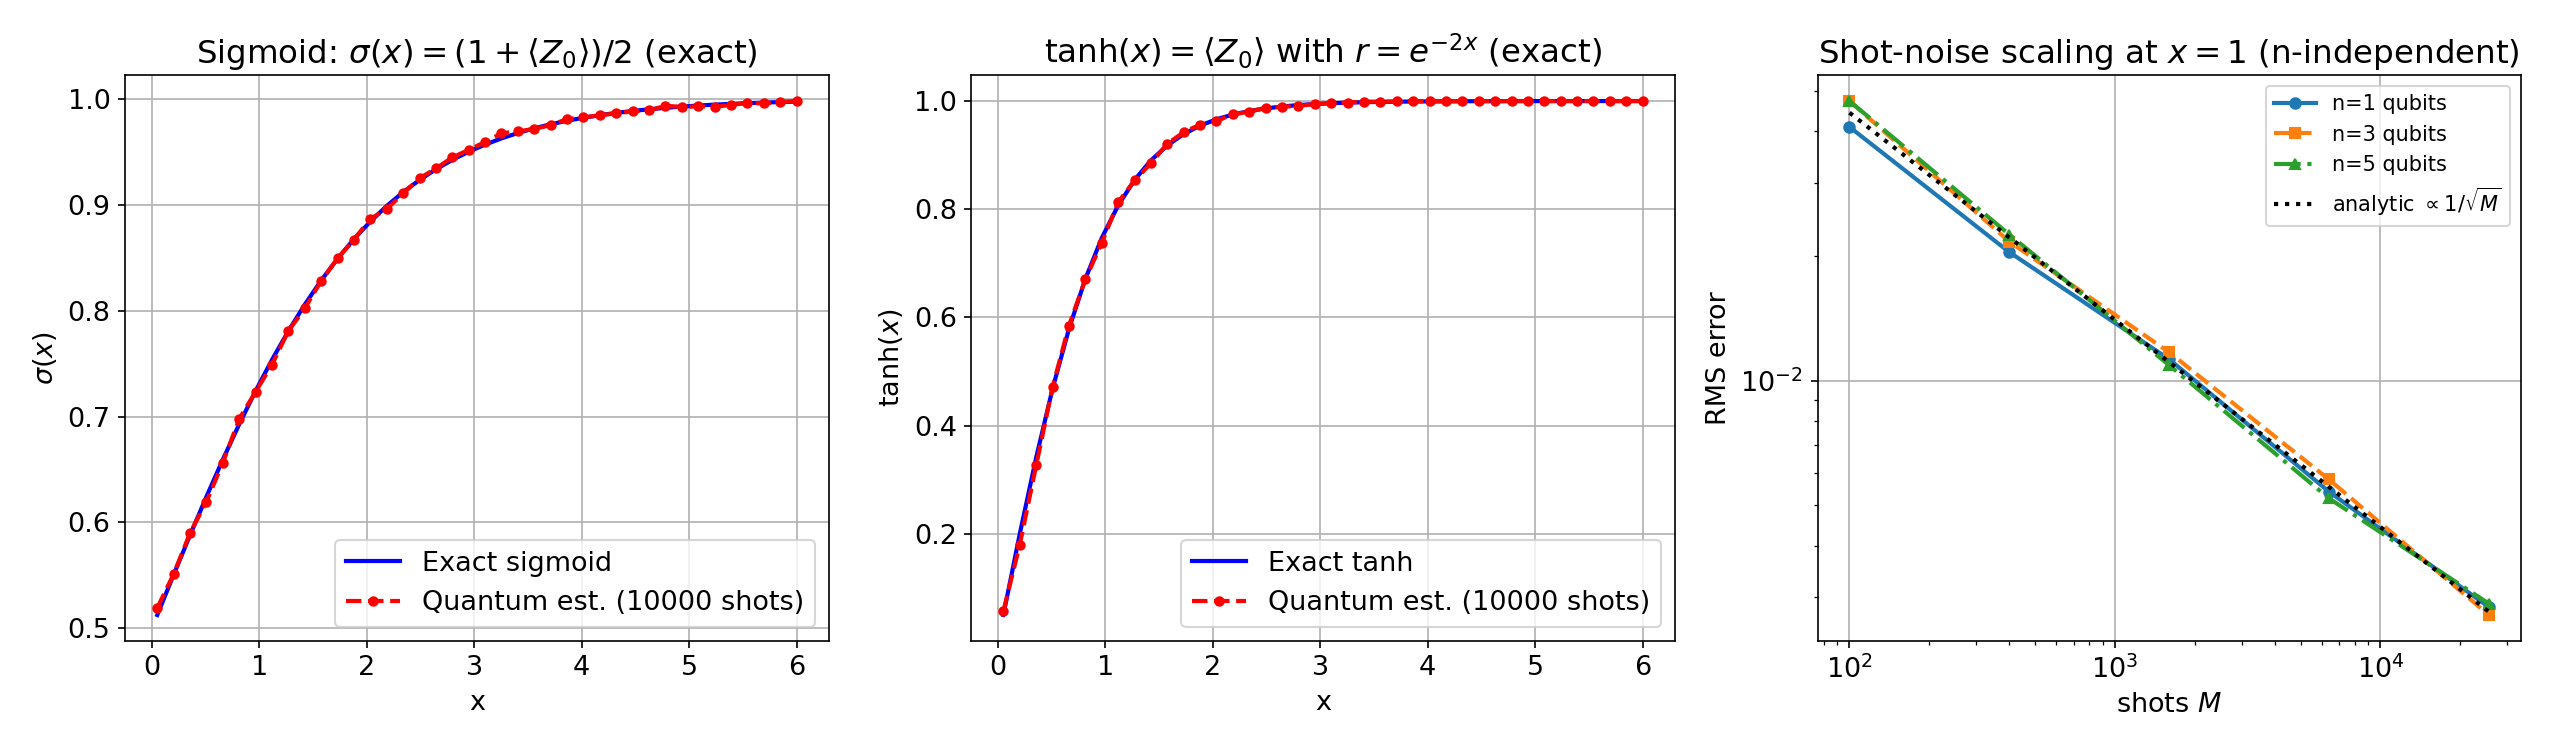
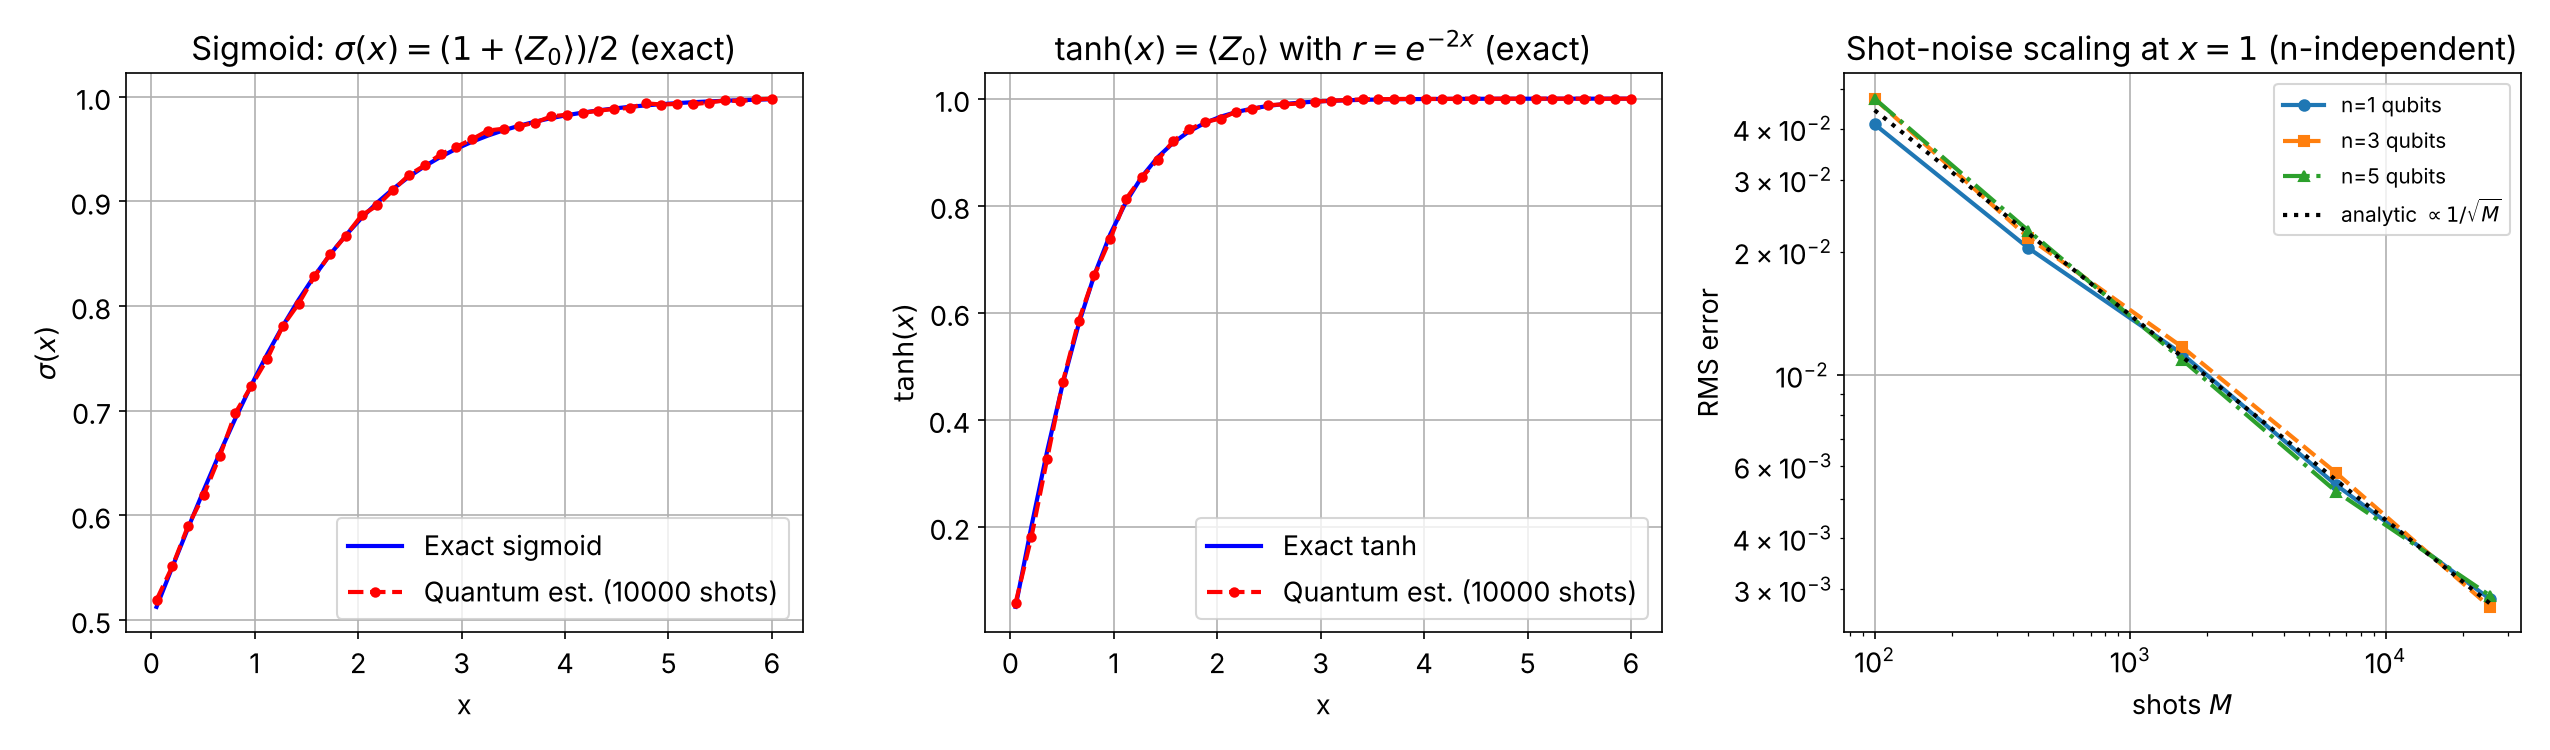
small fixes to simulaiton code

diff --git a/kernel_simulation.py b/kernel_simulation.py
@@ -15,7 +15,9 @@ give |<phi(x)|phi(y)>|^2 = [sqrt((1-qx^2)(1-qy^2)) + qx qy]^{2d}
 Estimated by SWAP test on 2d+1 qubits.
 
 Panel (c): Kernel ridge regression with the quantum geometric kernel
-(SWAP-test kernel matrix) on a 1-D binary classification task.
+(Gram matrix and test kernel both with SWAP-test shot noise, simulated by the
+equivalent binomial sampling) on a 1-D binary classification task. Training
+labels carry 10% flip noise; test labels are noise-free.
 """
 
 import pennylane as qml
@@ -120,9 +122,8 @@ if __name__ == "__main__":
         p = np.clip((1 + K_exact) / 2, 0, 1)
         return 2 * rng.binomial(M, p) / M - 1
 
-    def ridge_acc(Kmat_tr, ytr, Xtr_k, Xte_k, kern_exact):
+    def ridge_acc(Kmat_tr, ytr, Kte):
         alpha = np.linalg.solve(Kmat_tr + lam * np.eye(len(ytr)), ytr)
-        Kte = np.array([[kern_exact(xt, xs) for xs in Xtr_k] for xt in Xte_k])
         return np.sign(Kte @ alpha)
 
     gamma_rbf = 2.0
@@ -131,7 +132,8 @@ if __name__ == "__main__":
     Xte_n = 0.9 * Xte / np.pi
     geo_exact_tr = np.array([[geo_kernel_exact(a, b, n_qubits) for b in Xn] for a in Xn])
     rbf_tr = np.exp(-gamma_rbf**2 * (Xtr[:, None] - Xtr[None, :])**2)
-    rbf_te = lambda xt, xs: np.exp(-gamma_rbf**2 * (xt - xs)**2)
+    rbf_te_mat = np.exp(-gamma_rbf**2 * (Xte[:, None] - Xtr[None, :])**2)
+    geo_exact_te = np.array([[geo_kernel_exact(a, b, n_qubits) for b in Xn] for a in Xte_n])
 
     n_seeds = 10
     acc_q, acc_rbf = [], []
@@ -139,10 +141,13 @@ if __name__ == "__main__":
     for seed in range(n_seeds):
         rng = np.random.default_rng(seed)
         ytr = np.sign(np.sin(3 * Xtr)); flip = rng.random(n_train) < 0.1; ytr[flip] *= -1
+        # Gram matrix AND test-train kernel are both estimated with shot noise
         Kq = swap_noise(geo_exact_tr, shots, rng)
+        Kq = np.triu(Kq) + np.triu(Kq, 1).T      # symmetric estimate
         np.fill_diagonal(Kq, 1.0)  # SWAP test of a state with itself is exactly 1
-        pq = ridge_acc(Kq, ytr, Xn, Xte_n, lambda xt, xs: geo_kernel_exact(xt, xs, n_qubits))
-        pr = ridge_acc(rbf_tr, ytr, Xtr, Xte, rbf_te)
+        Kq_te = swap_noise(geo_exact_te, shots, rng)
+        pq = ridge_acc(Kq, ytr, Kq_te)
+        pr = ridge_acc(rbf_tr, ytr, rbf_te_mat)
         acc_q.append(np.mean(pq == yte)); acc_rbf.append(np.mean(pr == yte))
         if seed == 0:
             preds = {'q': pq, 'rbf': pr, 'ytr': ytr}

diff --git a/quantum_kan.py b/quantum_kan.py
@@ -41,30 +41,13 @@ class FourierTerm(torch.nn.Module):
             qml.Hadamard(wires=0)
             return qml.expval(qml.PauliZ(0))
 
-        @qml.qnode(self.dev, interface='torch', diff_method='backprop')
-        def circuit_imag(phase):
-            qml.Hadamard(wires=0)
-            for k in range(1, self.n_qubits + 1):
-                qml.Hadamard(wires=k)
-            for k in range(self.n_qubits):
-                angle = phase * (2 ** k)
-                qml.ControlledPhaseShift(angle, wires=[0, k + 1])
-            qml.adjoint(qml.S)(wires=0)
-            qml.Hadamard(wires=0)
-            return qml.expval(qml.PauliZ(0))
-
         self.circuit_real = circuit_real
-        self.circuit_imag = circuit_imag
 
     def forward(self, x):
-        results = []
-        for xi in x:
-            phase = self.omega * xi
-            re = self.circuit_real(phase)
-            im = self.circuit_imag(phase)
-            avg = re + 1j * im
-            results.append(avg.real.float())   # ensure float32
-        return torch.stack(results)
+        # Hadamard test: <Z_0> = Re[(1/N) sum_j e^{i omega x j}] (real Dirichlet kernel).
+        # The whole batch is evaluated at once via PennyLane parameter broadcasting.
+        phase = self.omega * x
+        return self.circuit_real(phase).float()   # ensure float32
 
 
 # ----------------------------------------------------------------------

diff --git a/soft_plus_relu.py b/soft_plus_relu.py
@@ -13,7 +13,8 @@ For x > 0 we use softplus(x) = x + softplus(-x).
 
 ReLU
 ----
-For basis-encoded signed integers, one CSWAP per magnitude qubit, controlled
+For basis-encoded signed integers in sign-magnitude form (3 magnitude bits
+represent -7..7), one CSWAP per magnitude qubit, controlled
 by the sign qubit, swaps the data register with a |0> ancilla register when
 x < 0, leaving ReLU(x) = max(0, x) in the data register.
 """
@@ -108,8 +109,8 @@ if __name__ == "__main__":
     soft_exact = np.log1p(np.exp(x_all))
 
     # ---- ReLU ----
-    n_mag = 3                      # 1 sign + 3 magnitude bits -> range -8..7
-    x_ints = np.arange(-8, 8)
+    n_mag = 3                      # sign-magnitude: 1 sign + 3 magnitude bits -> range -7..7
+    x_ints = np.arange(-7, 8)
     relu_q = [relu_quantum(x, n_mag) for x in x_ints]
     relu_exact = np.maximum(0, x_ints)
 

diff --git a/README.md b/README.md
@@ -5,3 +5,13 @@ links to the paper:
 [https://doi.org/10.5281/zenodo.18410033](https://doi.org/10.5281/zenodo.18410033)  
 [https://www.researchgate.net/publication/400516094_Quantum_Generating_Functions_Formulation_and_Applications_in_Quantum_Machine_Learning](https://www.researchgate.net/publication/400516094_Quantum_Generating_Functions_Formulation_and_Applications_in_Quantum_Machine_Learning)
 
+
+## Contents
+
+- `paper/` : LaTeX sources of the paper (`main.tex`, `main.bib`, `picture.tex`). Build with `cd paper && latexmk -pdf main.tex`; figures are read from the repository root.
+- `sigmoid_tanh.py` : sigmoid / tanh circuits (figure `geometric_activation_functions.png`)
+- `soft_plus_relu.py` : softplus by quadrature of the sigmoid circuit, ReLU by CSWAP (figure `softplus_relu_simulation.png`)
+- `kernel_simulation.py` : geometric and product-state Gaussian kernels, kernel ridge regression (figure `kernel_simulation.png`)
+- `quantum_kan.py` : quantum KAN layer with Fourier edges (figure `quantum_kan_multi_fourier.png`)
+
+Install dependencies with `pip install -r requirements.txt`, then run each script from the repository root.
